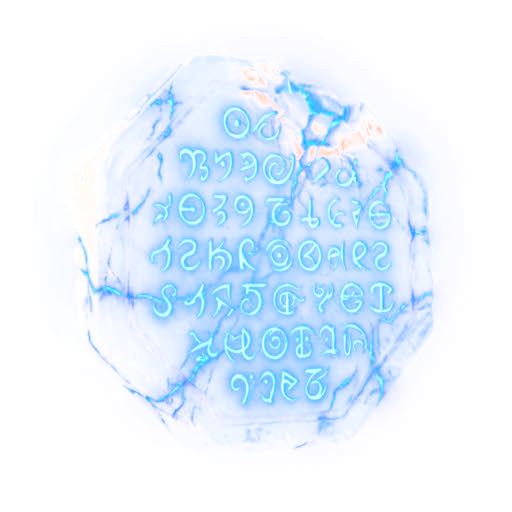
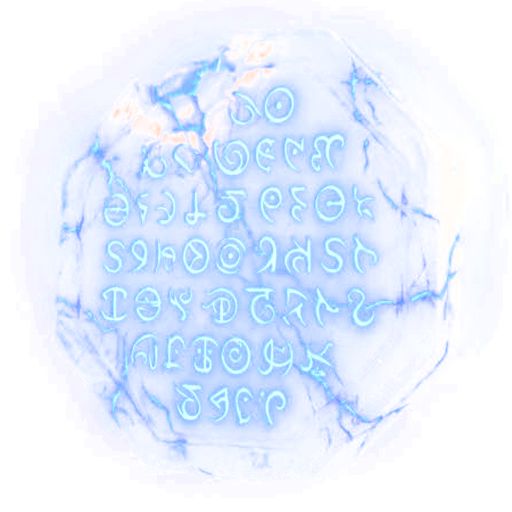
Add files via upload

Changed region(s): [[0.0938, 0.0938, 0.9062, 0.9375], [0.8125, 0.7188, 0.8438, 0.75], [0.375, 0.9062, 0.4062, 0.9375]]

diff --git a/index.html b/index.html
@@ -13,7 +13,7 @@
   <link rel="icon" type="image/png" sizes="16x16" href="icons/favicon-16.png">
   <link rel="apple-touch-icon" href="icons/apple-touch-icon.png">
   
-  <title>Solo Leveling — Тренировочный счётчик v5.9.36 (System Codex)</title>
+  <title>Solo Leveling — Тренировочный счётчик v5.9.37 (System Codex)</title>
   <link rel="preconnect" href="https://fonts.googleapis.com">
   <link rel="preconnect" href="https://fonts.gstatic.com" crossorigin>
   <link href="https://fonts.googleapis.com/css2?family=Orbitron:wght@500;700&family=Roboto+Mono:wght@400;700&display=swap" rel="stylesheet">
@@ -910,7 +910,7 @@
 </div> 
 
 <script>
-  const APP_VERSION = '5.9.36';
+  const APP_VERSION = '5.9.37';
   const STORAGE_KEY = 'sl_daily_v5_5_0';
   const STATS_KEY = 'sl_total_stats_v5_5_0';
   const PREV_KEYS = ['sl_daily_v5_4_0', 'sl_daily_v5_3_3', 'sl_daily_v5_1_9', 'sl_daily_v5_1_8', 'sl_daily_v5_1_7', 'sl_daily_v5_1_6', 'sl_daily_v5_1_5', 'sl_daily_v5_1_4', 'sl_daily_v5_1_3', 'sl_daily_v5_1_2', 'sl_daily_v5_1_1', 'sl_daily_v5_0_0'];
@@ -1092,7 +1092,7 @@
     "shard_limit": { name: "Осколок Предела", icon: "🔹", desc: "Даёт +1 использование Преодоления предела сегодня.", price: 1500, level: 12 },
     "rune_restoration_charged": { name: "Руна Восстановления (усиленная)", icon: "⚗", desc: "Восстанавливает 65% опыта от последнего штрафа.", price: 2500, level: 15 },
     "rune_growth_charged": { name: "Руна Роста (усиленная)", icon: "🌱", desc: "Увеличивает получаемый опыт на 35% до конца сегодняшнего дня.", price: 2500, level: 20 },
-    "tablet_of_reassessment": { name: "Скрижаль Пересмотра", icon: "🪧", desc: "Использована для пересмотра пройденного пути: полностью сбрасывает вложенные очки характеристик, возвращая их в свободный пул для нового распределения.", price: 3700, level: 20 },
+    "tablet_of_reassessment": { name: "Скрижаль Пересмотра", icon: "🪧", desc: "Сбрасывает все вложенные очки характеристик, освобождая их для нового распределения.", price: 3700, level: 20 },
     "rune_protection_charged": { name: "Руна Защиты (усиленная)", icon: "📜", desc: "Защита от штрафа на завтра, а также снимает уже наложенный сегодня штраф.", price: 2500, level: 25 },
     "rune_limit_charged": { name: "Руна Предела (усиленная)", icon: "🛡", desc: "Даёт +2 использования Преодоления предела сегодня.", price: 2500, level: 30 },
     "crystal_restoration": { name: "Кристалл Восстановления", icon: "💠", desc: "Восстанавливает 80% опыта от последнего штрафа.", price: 3800, level: 35 },

diff --git a/sw.js b/sw.js
@@ -1,6 +1,6 @@
 // Bump this on every release that changes any cached file, so old
 // clients pick up the new version instead of being stuck on a stale cache.
-const CACHE_VERSION = 'v5-9-36';
+const CACHE_VERSION = 'v5-9-37';
 const APP_CACHE = `solo-leveling-app-${CACHE_VERSION}`;
 const FONT_CACHE = 'solo-leveling-fonts';
 
